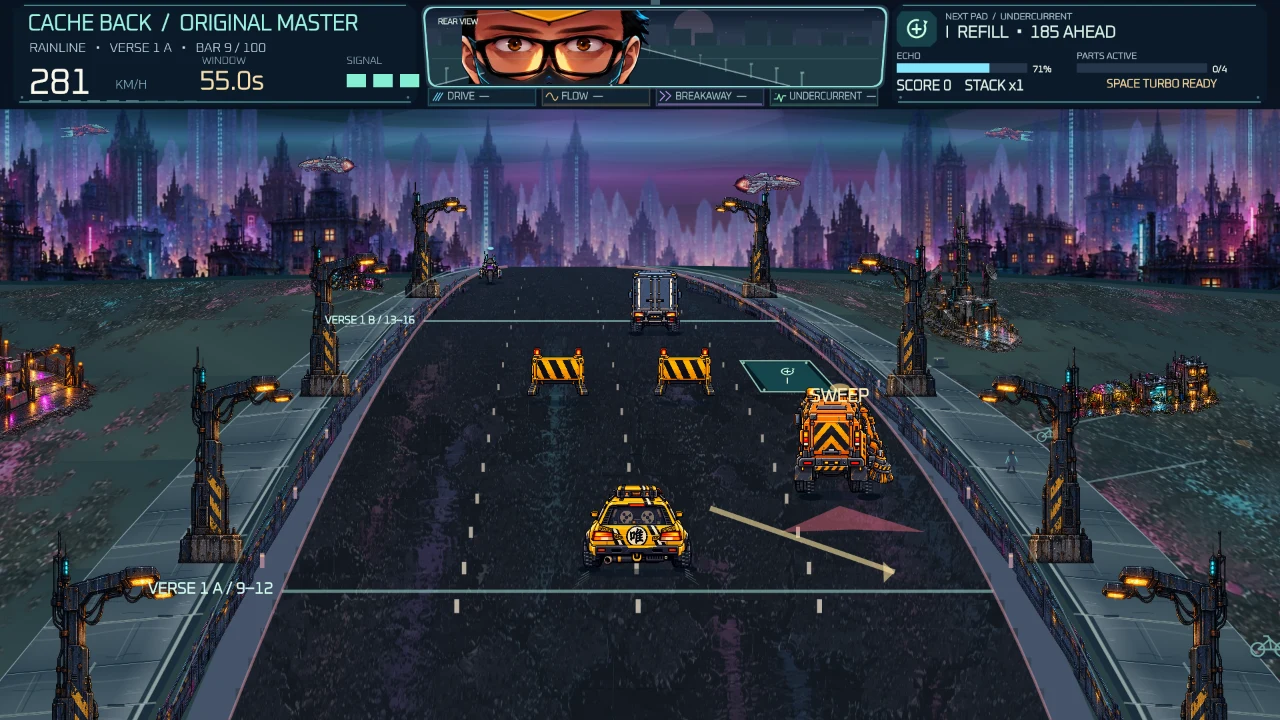
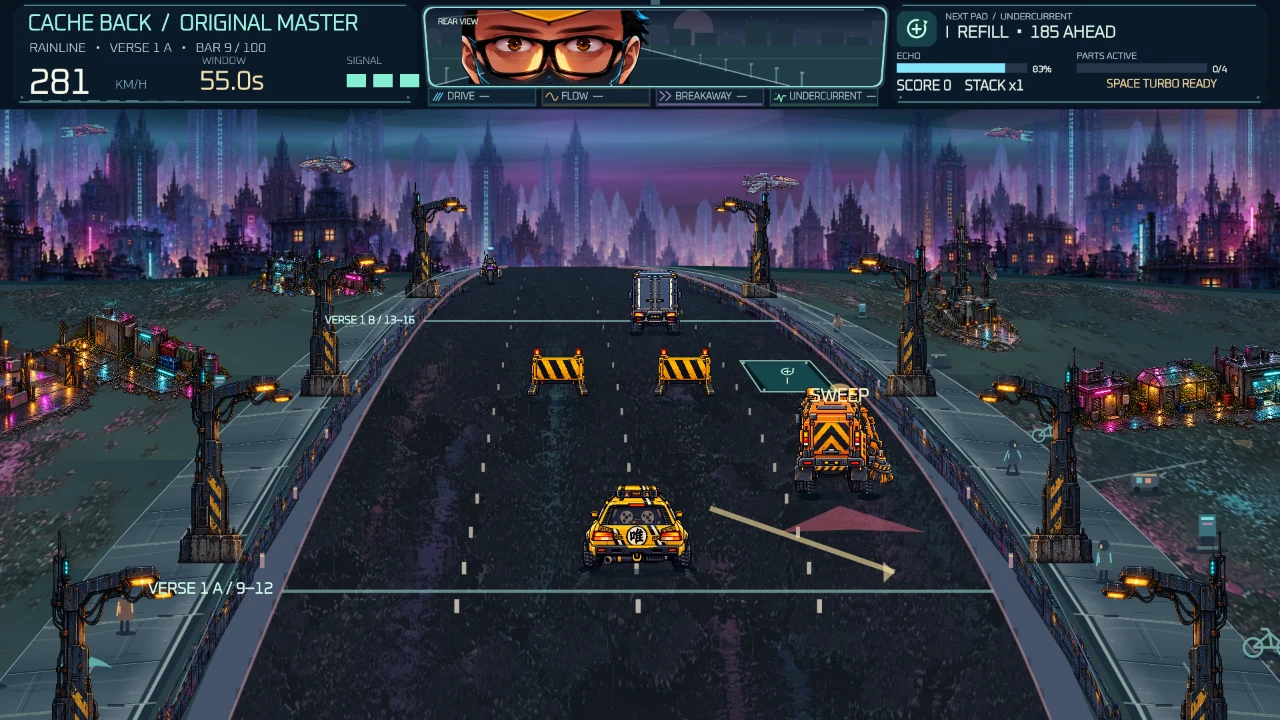
Scale Cache neighborhoods and place contextual street life

diff --git a/src/game/cache-road-proof.js b/src/game/cache-road-proof.js
@@ -156,13 +156,14 @@ window.FILE_MANIFEST.push({ name: 'src/game/cache-road-proof.js', exports: ['BAR
   // fixed neighborhood scenes. They replace a ground cluster at that address
   // rather than stacking another full block on top of it.
   const INFILL_ART = [
-    ['cacheTransitNook',1602,982,365],
-    ['cacheOutskirtsHomes',2022,778,490],
-    ['cacheUtilityCorner',1585,992,350],
-    ['cacheGreenhouseWorkshop',1536,1024,380],
-    ['cacheOutskirtsWorkshops',2022,778,490],
-    ['cacheRepairShop',1389,1132,345]
+    ['cacheTransitNook',1602,982,650],
+    ['cacheOutskirtsHomes',2022,778,910],
+    ['cacheUtilityCorner',1585,992,620],
+    ['cacheGreenhouseWorkshop',1536,1024,700],
+    ['cacheOutskirtsWorkshops',2022,778,910],
+    ['cacheRepairShop',1389,1132,650]
   ];
+  const VENDOR_ART=['cacheVendorStall',1391,1131,690];
   const INFILL_SCENES=[];
   for(const side of [-1,1]) {
     const addresses=SIDE_PLACES.filter(place=>place.side===side)
@@ -179,6 +180,18 @@ window.FILE_MANIFEST.push({ name: 'src/game/cache-road-proof.js', exports: ['BAR
     }
   }
   INFILL_SCENES.sort((a,b)=>b.at-a.at);
+  // A deep-set featured site can leave an empty curb even though its own
+  // building is present farther out. A smaller occupied frontage connects
+  // that site to the road, without changing the established site address.
+  const SATELLITE_SCENES=SIDE_PLACES.filter(place=>place.kind!=='parking' &&
+    place.setback>145 && !INFILL_SCENES.some(scene=>scene.side===place.side &&
+      Math.abs(scene.at-place.at)<130)).map(place=>({
+        at:place.at,side:place.side,index:Math.floor(place.at/220),
+        art:place.kind==='market'||place.kind==='diner' ? VENDOR_ART :
+          place.kind==='construction'||place.kind==='substation' ? INFILL_ART[2] :
+          place.kind==='garage' ? INFILL_ART[5] :
+          place.kind==='park'||place.kind==='garden' ? INFILL_ART[3] : INFILL_ART[1]
+      }));
   const clone = value => JSON.parse(JSON.stringify(value));
   const clamp = (value, min, max) => Math.max(min, Math.min(max, value));
   function mirrorExpression(s) {
@@ -1420,8 +1433,8 @@ window.FILE_MANIFEST.push({ name: 'src/game/cache-road-proof.js', exports: ['BAR
             [side<0?0:265,sourceY,1509,sourceH]);
       }
       ctx.restore();
-      // Narrow side streets run into selected gaps. Their mouths meet the
-      // sidewalk at the same world address, so the joins pass with the road.
+      // Narrow side streets occupy selected gaps. The optional frontages of
+      // deep-set places do not create new road junctions by themselves.
       for(const scene of INFILL_SCENES) {
         const t=sideDepth(scene.at-progress);
         if(t<.16||t>.72)continue;
@@ -1474,9 +1487,9 @@ window.FILE_MANIFEST.push({ name: 'src/game/cache-road-proof.js', exports: ['BAR
             Math.abs(scene.at-at)<155))continue;
           const variants=clusterArt[String(side)];
           const [key,sourceW,sourceH]=variants[((index%3)+3)%3];
-          const width=(1030+65*placeRandom(index*83+side*19))*t;
+          const width=(1190+70*placeRandom(index*83+side*19))*t;
           const x=roadsideX(side,t,
-            710+115*placeRandom(index*79+side*23)+380*t,300);
+            580+80*placeRandom(index*79+side*23)+280*t,300);
           if(x+width*.5<0||x-width*.5>1920)continue;
           const y=terrainAt(side,t,x)+60*t;
           ctx.save();ctx.beginPath();
@@ -1494,14 +1507,16 @@ window.FILE_MANIFEST.push({ name: 'src/game/cache-road-proof.js', exports: ['BAR
           ctx.restore();
         }
       }
-      // Smaller painted settings occupy those side-street gaps. Their source
-      // floor is buried into the same rolling ground as the main buildings.
-      for(const scene of INFILL_SCENES) {
-        const t=sideDepth(scene.at+38-progress);
-        if(t<.11||t>.84)continue;
+      // The selected gaps and deep-set sites gain readable supporting
+      // buildings. Their source floors bury into the same rolling bank.
+      for(const scene of [...INFILL_SCENES,...SATELLITE_SCENES]) {
+        const satellite=SATELLITE_SCENES.includes(scene);
+        const t=sideDepth(scene.at+(satellite?43:22)-progress);
+        if(t<.11||t>.95)continue;
         const [key,sourceW,sourceH,maxW]=scene.art;
-        const width=maxW*t;
-        const x=roadsideX(scene.side,t,485,260)+scene.side*22*t;
+        const width=(satellite?Math.min(620,maxW*.9):maxW)*t;
+        const sidewalkEdge=roadsideX(scene.side,t,220,190);
+        const x=sidewalkEdge+scene.side*(width*.5+(satellite?29:43)*t);
         if(x+width*.5<0||x-width*.5>1920)continue;
         const y=terrainAt(scene.side,t,x)+9*t;
         ctx.save();ctx.beginPath();
@@ -1673,14 +1688,14 @@ window.FILE_MANIFEST.push({ name: 'src/game/cache-road-proof.js', exports: ['BAR
           ctx.fillText('P',x-5*signT,y-58*signT);
         });
       };
-      const drawResident = (at,side,ground,seed) => {
+      const drawResident = (at,side,base,seed) => {
         const t=sideDepth(at-progress);
-        if(t<.23||t>1.12)return;
-        const x=roadsideX(side,t,ground?292:134,ground?205:96);
-        const foot=ground?terrainAt(side,t,x):roadY(t)+12*t;
+        if(t<.18||t>1.12)return;
+        const x=roadsideX(side,t,base,base>220?205:96);
+        const foot=base>220?terrainAt(side,t,x):roadY(t)+12*t;
         const pose=placeRandom(seed)> .5 ? 1:-1;
         clipRoadside(t,()=>{
-          ctx.save();ctx.translate(x,foot);ctx.scale(t,t);
+          ctx.save();ctx.translate(x,foot);ctx.scale(t*1.45,t*1.45);
           ctx.fillStyle='#101d2bb8';ctx.beginPath();ctx.ellipse(1,2,12,3,0,0,Math.PI*2);ctx.fill();
           ctx.strokeStyle='#202937';ctx.lineWidth=4;ctx.lineCap='round';
           ctx.beginPath();ctx.moveTo(-3,-16);ctx.lineTo(-6-pose*2,0);
@@ -1694,6 +1709,15 @@ window.FILE_MANIFEST.push({ name: 'src/game/cache-road-proof.js', exports: ['BAR
           ctx.fillStyle='#d0a179';ctx.fillRect(pose>0?2:-5,-45,3,5);
           ctx.fillStyle=seed%3?'#72bac0':'#e89b6e';
           ctx.fillRect(-7,-30,2,8);
+          if(seed%5===2) {
+            ctx.strokeStyle='#8da3a9';ctx.lineWidth=2;
+            ctx.beginPath();ctx.moveTo(11,-25);ctx.lineTo(13,-68);ctx.stroke();
+            ctx.fillStyle=['#9f658e','#5daba9','#be9971'][seed%3];
+            ctx.beginPath();ctx.moveTo(-17,-67);
+            ctx.quadraticCurveTo(12,-91,41,-67);
+            ctx.quadraticCurveTo(27,-72,13,-67);
+            ctx.quadraticCurveTo(-1,-72,-17,-67);ctx.fill();
+          }
           ctx.restore();
         });
       };
@@ -1703,7 +1727,7 @@ window.FILE_MANIFEST.push({ name: 'src/game/cache-road-proof.js', exports: ['BAR
         const x=roadsideX(side,t,base,175);
         const foot=base>220?terrainAt(side,t,x):roadY(t)+18*t;
         clipRoadside(t,()=>{
-          ctx.save();ctx.translate(x,foot);ctx.scale(t,t);
+          ctx.save();ctx.translate(x,foot);ctx.scale(t*1.38,t*1.38);
           ctx.fillStyle='#0d2030a0';ctx.beginPath();ctx.ellipse(0,2,31,5,0,0,Math.PI*2);ctx.fill();
           if(kind==='cycle') {
             ctx.strokeStyle='#71a6a6';ctx.lineWidth=3;
@@ -1748,7 +1772,12 @@ window.FILE_MANIFEST.push({ name: 'src/game/cache-road-proof.js', exports: ['BAR
         const t=sideDepth(place.at-progress);
         if(t<.06||t>1.9)continue;
         if(place.kind==='parking') {
-          drawProjectedLocale(place,t);continue;
+          drawProjectedLocale(place,t);
+          drawResident(place.at+26,place.side,134,place.at);
+          drawResident(place.at-18,place.side,292,place.at+11);
+          drawStreetProp(place.at+48,place.side,255,'cycle');
+          drawStreetProp(place.at-31,place.side,330,'terminal');
+          continue;
         }
         const [key,sourceW,sourceH,maxW]=
           (place.variant && SIDE_VARIANTS[place.variant].art) || PLACE_ART[place.kind];
@@ -1773,18 +1802,27 @@ window.FILE_MANIFEST.push({ name: 'src/game/cache-road-proof.js', exports: ['BAR
             flip:place.variant ? !!SIDE_VARIANTS[place.variant].flip :
               placeFacesRoad(place.kind,place.side) });
         });ctx.restore();
+        drawResident(place.at+26,place.side,134,Math.floor(place.at));
         if(['market','diner','park','house','garden'].includes(place.kind))
-          drawResident(place.at+22,place.side,false,Math.floor(place.at));
-        if(place.kind!=='parking')drawStreetProp(place.at-18,place.side,
-          255,['market','diner'].includes(place.kind)?'cart':
+          drawResident(place.at-24,place.side,290,Math.floor(place.at)+13);
+        drawStreetProp(place.at-18,place.side,255,
+          ['market','diner'].includes(place.kind)?'cart':
           place.kind==='park'||place.kind==='garden'?'planter':
           place.kind==='garage'?'cycle':'crate');
+        drawStreetProp(place.at+53,place.side,325,
+          place.kind==='park'||place.kind==='garden'?'planter':
+          ['market','diner'].includes(place.kind)?'cart':
+          place.kind==='house'?'cycle':'terminal');
       }
       for(const scene of INFILL_SCENES) {
-        drawResident(scene.at-18,scene.side,false,scene.index+7);
-        if(scene.index%2===0)drawResident(scene.at+19,scene.side,true,scene.index+23);
+        drawResident(scene.at-19,scene.side,134,scene.index+7);
+        drawResident(scene.at+19,scene.side,298,scene.index+23);
+        if(scene.index%3===0)
+          drawResident(scene.at+42,scene.side,153,scene.index+39);
         drawStreetProp(scene.at+14,scene.side,260,
           ['terminal','cycle','cart','planter'][scene.index%4]);
+        drawStreetProp(scene.at-31,scene.side,332,
+          ['cycle','cart','planter','crate'][scene.index%4]);
       }
       // Stretch adjacent wall segments between the same projected road points.
       // This makes one continuous side wall rather than floating sign panels.

diff --git a/tools/check-presentation-assets.js b/tools/check-presentation-assets.js
@@ -11,7 +11,7 @@ w.Image = class Image {
 load(context, 'src/engine/presentation-assets.js');
 const art = w.BARCODE.PresentationAssets;
 for (let i = 0; i < 20; i++) art.preload();
-assert.strictEqual(images.length, 89, 'restarts reuse Cache traffic, places, city, terrain, infill, ship and mirror art');
+assert.strictEqual(images.length, 90, 'restarts reuse Cache traffic, places, city, terrain, infill, vendor, ship and mirror art');
 assert(images.every(im => /^https:\/\/raw\.githubusercontent\.com\/.+\/[a-f0-9]{40}\//.test(im.requests[0])), 'assets use published immutable revisions');
 const cacheRoadRoot = 'https://raw.githubusercontent.com/6-Bit-01/BARCODE-SYSTEM-OVERRIDE/37db98387b8791655e3ff352d6bc6d61cb0b574b/';
 assert.equal(images.filter(im => im.requests[0].startsWith(cacheRoadRoot)).length,16,
@@ -28,6 +28,14 @@ for(const image of terrainImages) {
   assert.equal(image.requests[1],local);
   assert(fs.existsSync(path.join(root,local)),`${local} has a bundled fallback`);
 }
+const cacheInhabitedRoot = 'https://raw.githubusercontent.com/6-Bit-01/BARCODE-SYSTEM-OVERRIDE/72fad00884d70e7574b1f021f497722669795908/';
+const vendorImage=images.find(im=>im.requests[0]===cacheInhabitedRoot+'assets/cache-road/world/street-vendor-people.webp');
+assert(vendorImage,'the contextual vendor is pinned to the published art commit');
+vendorImage.onerror();
+assert.equal(vendorImage.requests[1],'assets/cache-road/world/street-vendor-people.webp');
+assert(fs.existsSync(path.join(root,vendorImage.requests[1])));
+assert(!images.some(im=>im.requests[0].endsWith('/service-bus-stop.webp')),
+  'retained bus-stop painting remains inactive without a planned service route');
 const cacheWorldRoot = 'https://raw.githubusercontent.com/6-Bit-01/BARCODE-SYSTEM-OVERRIDE/41edca02367b9f1f3af429d14df3d378ca46c9b4/';
 assert.equal(images.filter(im => im.requests[0].startsWith(cacheWorldRoot)).length,4,
   'the four illustrated traffic vehicles retain their published asset revision');
@@ -88,7 +96,7 @@ assert.deepStrictEqual(ops.find(op => op[0] === 'drawImage').slice(2),
   'collision eyes come from the second row inside the same mirror crop');
 arrowImage.onerror(); arrowImage.onerror();
 assert.strictEqual(arrowImage.requests.length, 2); assert.strictEqual(arrowImage.onerror, null);
-art.preload(); assert.strictEqual(images.length, 89, 'failed assets do not retry forever');
+art.preload(); assert.strictEqual(images.length, 90, 'failed assets do not retry forever');
 pulseImage.naturalWidth = pulseImage.naturalHeight = 512; pulseImage.onload();
 ops.length = 0; art.draw('bossPulse', ctx, { y: 822, width: 64, height: 56, frame: 2 });
 assert.deepStrictEqual(ops.find(op => op[0] === 'drawImage').slice(2), [10, 351, 236, 145, -32, -56, 64, 56], 'pulse fills the dangerous height and retains the ground anchor');

diff --git a/src/engine/presentation-assets.js b/src/engine/presentation-assets.js
@@ -18,6 +18,7 @@ window.FILE_MANIFEST.push({ name: 'src/engine/presentation-assets.js', exports: 
   const cachePlacesRoot = 'https://raw.githubusercontent.com/6-Bit-01/BARCODE-SYSTEM-OVERRIDE/6868a002c8ee10b8067b45aa78f3dfbeaa628396/';
   const cacheRoadsideRoot = 'https://raw.githubusercontent.com/6-Bit-01/BARCODE-SYSTEM-OVERRIDE/3dbc72b087435b02244ff1ec097a5151329a7234/';
   const cacheTerrainRoot = 'https://raw.githubusercontent.com/6-Bit-01/BARCODE-SYSTEM-OVERRIDE/1115dcf56bf841d05be3f6935126330e85fba1da/';
+  const cacheInhabitedRoot = 'https://raw.githubusercontent.com/6-Bit-01/BARCODE-SYSTEM-OVERRIDE/72fad00884d70e7574b1f021f497722669795908/';
   // All fifteen new area paintings share one immutable asset commit. Makko
   // can request the pinned art even if its import omits bundled binary files;
   // the same relative paths remain the local preview fallback.
@@ -75,6 +76,7 @@ window.FILE_MANIFEST.push({ name: 'src/engine/presentation-assets.js', exports: 
     cacheGreenhouseWorkshop: { path: 'assets/cache-road/world/greenhouse-workshop.webp', root: cacheTerrainRoot, columns: 1, rows: 1, frames: 1, ax: .5, ay: 1, smooth: true },
     cacheOutskirtsWorkshops: { path: 'assets/cache-road/world/outskirts-workshops.webp', root: cacheTerrainRoot, columns: 1, rows: 1, frames: 1, ax: .5, ay: 1, smooth: true },
     cacheRepairShop: { path: 'assets/cache-road/world/neighborhood-repair-shop.webp', root: cacheTerrainRoot, columns: 1, rows: 1, frames: 1, ax: .5, ay: 1, smooth: true },
+    cacheVendorStall: { path: 'assets/cache-road/world/street-vendor-people.webp', root: cacheInhabitedRoot, columns: 1, rows: 1, frames: 1, ax: .5, ay: 1, smooth: true },
     cacheParapet: { path: 'assets/cache-road/roadside/parapet.webp', root: cacheRoadRoot, columns: 1, rows: 1, frames: 1, ax: .5, ay: 1, smooth: true },
     cachePylon: { path: 'assets/cache-road/roadside/service-pylon.webp', root: cacheRoadRoot, columns: 1, rows: 1, frames: 1, ax: .28, ay: 1, smooth: true },
     cacheSidewalk: { path: 'assets/cache-road/roadside/sidewalk-slab.svg', root: cacheRoadsideRoot, columns: 1, rows: 1, frames: 1, ax: 0, ay: 0, smooth: true },

diff --git a/docs/source-pack/CACHE_ROAD_INHABITED_GROUND.md b/docs/source-pack/CACHE_ROAD_INHABITED_GROUND.md
@@ -16,6 +16,13 @@ places and lamps. Both banks clip at the established shallow city boundary,
 while bases remain buried in the rolling bank. The material advances toward
 the player when the road advances, including through bends and pause/resume.
 
+The six ground-cluster paintings now sit closer to the visible bank and draw
+larger, so their buildings read as neighborhoods at driving scale. The six
+smaller gap settings also draw larger. Eighteen deep-set featured sites get
+compact frontages chosen by their use: homes by housing, repairs by garages,
+utility hardware by works, a garden/workshop by parks, and a vendor at
+selected market or diner sites. These frontages keep the original site address.
+
 ## Static neighborhood trial
 
 Forty-two fixed infill addresses occupy selected gaps between the larger
@@ -24,7 +31,8 @@ through them: repair shop, greenhouse workshop, homes, workshops, transit
 nook and utility corner. Each has a small paved branch in the ground plane,
 an opaque building or service setting, and a few fixed residents and props.
 Cycles, carts, terminals, planters and service crates repeat with different
-contexts; the existing foreground places get a small matching prop. The
+contexts; the existing foreground places get matching props. Residents and
+small furniture also appear by featured sites and parking areas. The
 pedestrians hold a deterministic pose for this visual trial. None of these
 objects affects collision, traffic, pickups, music or saved game state.
 
@@ -32,10 +40,15 @@ The branch road appears only at middle distance and narrows into its painted
 setting. It does not turn into a wide dark slab near the player. Infill art
 draws below the road and main sites, and its foot is clipped into the same
 terrain surface. The gap selection prevents a second full building row.
+Deep-set frontages do not add junctions. The painted bus-stop source is
+retained but inactive: the current roadside has no verified bus route or stop
+frontage. The older flat shelter and stall drawings were removed; the vendor
+painting appears only with market/diner addresses.
 
 ## Native review
 
 Compare the [opening](review-cache-inhabited/Cache-Road-Mirror-Road-0000.webp),
+[early cluster scale](review-cache-inhabited/Cache-Road-Mirror-Road-0320.webp),
 [early service gap](review-cache-inhabited/Cache-Road-Mirror-Road-0400.webp),
 [next block](review-cache-inhabited/Cache-Road-Mirror-Road-0700.webp),
 [later bend](review-cache-inhabited/Cache-Road-Mirror-Road-4000.webp) and
@@ -44,7 +57,8 @@ The separate continuous 32-second drive is the motion review. These are
 scripted production Canvas frames; a merged Makko drive and owner visual
 acceptance remain to be done.
 
-Checks cover the pinned/bundled art, six infill settings, opaque scale, city
+Checks cover the pinned/bundled art, six infill settings, contextual vendors,
+opaque scale, city
 pan, road texture and a fixed ground strip moving toward the player with
 progress. The composition should be judged at normal play speed as well as
 in stills: the curb, terrain, buildings and small streets should read as one

diff --git a/docs/source-pack/CHANGELOG.md b/docs/source-pack/CHANGELOG.md
@@ -1,5 +1,17 @@
 # Recovery checkpoint — September 14
 
+## September 26, 2026 — larger neighborhood scale and contextual street life
+
+- Increase the six gap-setting and ground-cluster building scale, moving the
+  wide clusters inward so more of each block remains visible on the bank.
+- Fill selected deep-set featured sites with smaller matching frontages;
+  add static residents, bicycles, carts, terminals and planters at featured
+  places and parking lots. Painted vendor scenes serve only market/diner sites.
+- Keep the painted bus-stop source inactive until a real service route is
+  designed. Remove speculative extra junctions and old flat shelter/stall
+  drawings. Retain the approved terrain, horizon, city and road composition;
+  refresh six review frames and the continuous drive.
+
 ## September 26, 2026 — Cache Road rolling ground and inhabited gaps
 
 - Restore the reviewed continuous ground, two-depth city and six fitted

diff --git a/docs/source-pack/CURRENT_STATE.md b/docs/source-pack/CURRENT_STATE.md
@@ -13,6 +13,14 @@ featured sites and gameplay remain in their previous positions. The
 32-second native drive and five stills are described in
 `CACHE_ROAD_INHABITED_GROUND.md`. Makko visual acceptance remains open.
 
+The follow-up enlarges the cluster and infill buildings, adds compact
+frontages to deep-set sites, and puts a painted vendor by selected markets and
+diners. Residents and small props now appear beside featured sites and parking
+areas. Bus stops are not placed; their source is retained but inactive until
+the street network supports one. The speculative extra junctions and flat
+shelter drawings were removed. Six refreshed stills and a new continuous
+drive record the visual check.
+
 ## September 25 — equal usable left and right area selections
 
 The original nine-left inventory had two inactive hard-edged sources,

diff --git a/docs/source-pack/ACCEPTANCE.md b/docs/source-pack/ACCEPTANCE.md
@@ -2,6 +2,13 @@
 
 ## Cache Road rolling ground and inhabited outskirts — September 26
 
+For the larger-scale follow-up, compare the [early cluster at bar 8](review-cache-inhabited/Cache-Road-Mirror-Road-0320.webp)
+with the other five stills. Ground-cluster buildings should be readable on the
+bank, while featured sites keep room around them. Market/diner frontages may
+have vendors and pedestrians; there should be **no bus stop** or unconnected
+shelter beside the highway. The source painting remains inactive for a future
+route design.
+
 Play the full route at normal speed. The painted grain should roll toward
 the car with the sidewalk and road markings, including through bends, without
 a stationary floor or abrupt strip seams. Look for smaller occupied gaps,

diff --git a/AGENTS.md b/AGENTS.md
@@ -2,6 +2,13 @@
 
 ## September 26, 2026 — inhabited ground review
 
+The follow-up increases visible cluster and infill building scale. Small
+frontages correspond to deep-set featured sites; painted vendors appear only
+by markets/diners. Do not rotate bus stops into arbitrary gaps or invent road
+junctions to support them. The bus-stop art is retained but inactive. The old
+flat shelters/stalls were removed. Use refreshed actual road frames and the
+continuous drive before changing placements.
+
 Keep the wide 420-unit roadside crest, shallow city boundary, two city depths
 and current palette. The ground grain samples adjacent world-distance strips
 at the same projection as road furniture. Six compact neighborhood settings

diff --git a/assets/cache-road/world/README.md b/assets/cache-road/world/README.md
@@ -11,6 +11,10 @@ paintings (`neighborhood-repair-shop`, `greenhouse-workshop`,
 streets and street life supplied by the renderer. Their PNG sources remain
 under `sources/`. See `docs/source-pack/CACHE_ROAD_INHABITED_GROUND.md`.
 
+`street-vendor-people.webp` is an active market/diner frontage with its PNG
+under `sources/`. `service-bus-stop.webp` and its source are retained but
+inactive; the current world has no coherent bus route.
+
 The earlier panorama and city description below documents retained sources
 and previous visual experiments.
 
